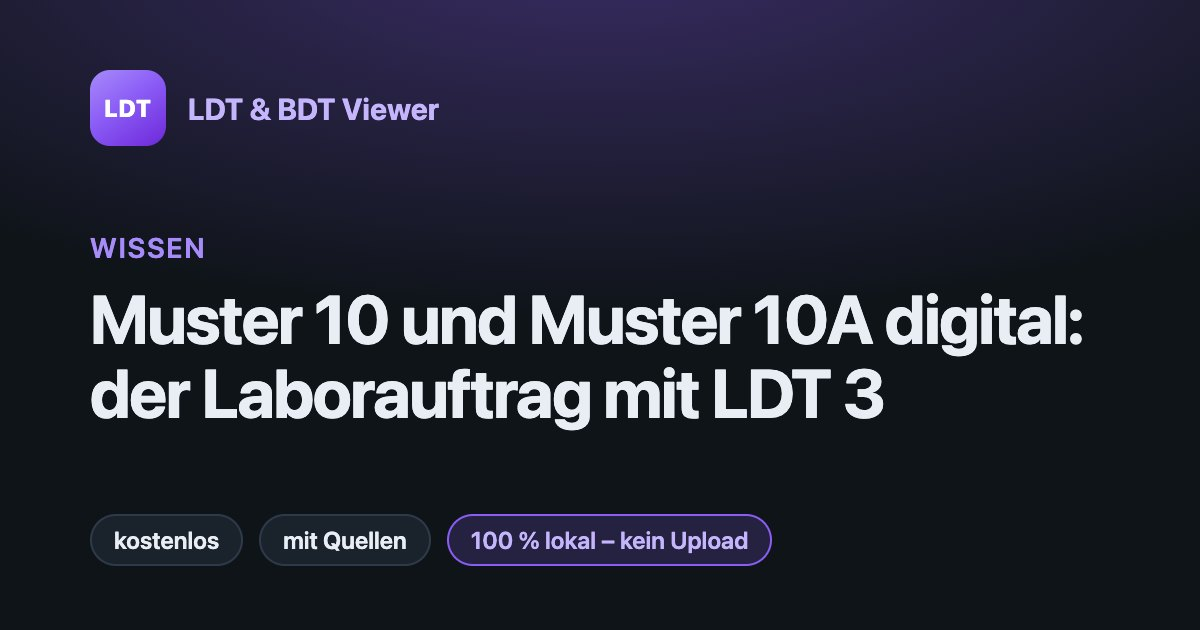
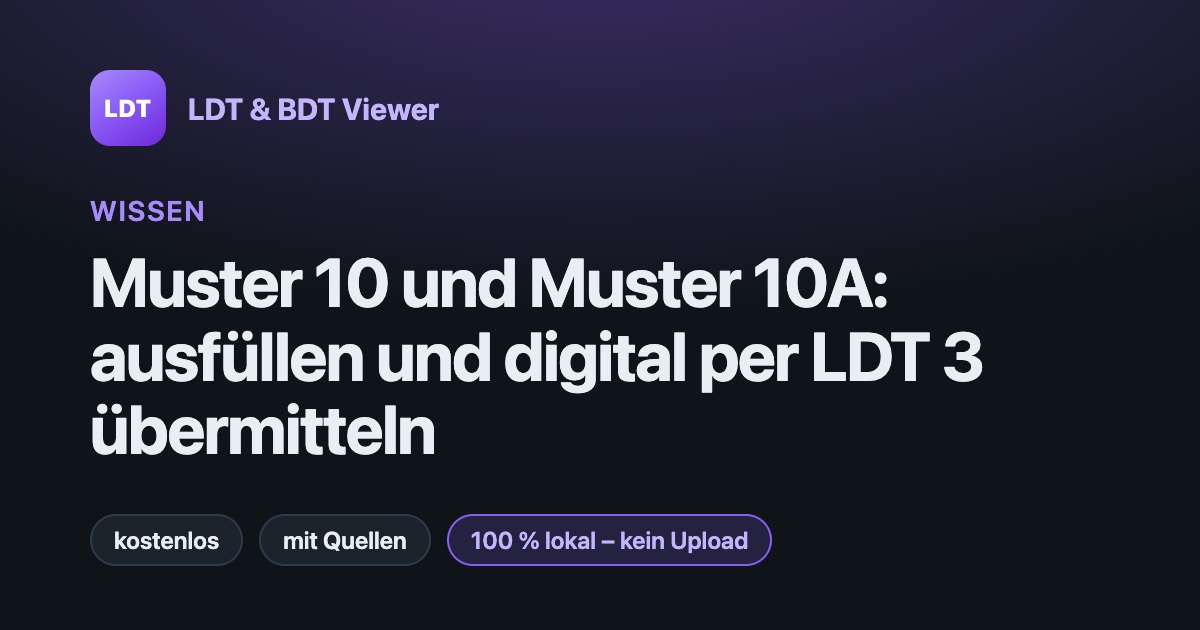
Audit umgesetzt: Suchabsicht BDT und Muster 10A, Quellen kürzer, Autor, Diagramm, Bedienbarkeit
- KBV-Prüfmodul-Seite: Tabellenspalten vertauscht (Datum stand unter „Inhalt“)
- /was-ist-bdt/: Titel/H1 „BDT-Datei … erkennen und öffnen“, Erkennungshilfe und Abgrenzung
  zu anderen .bdt-Dateien (filext.com)
- /muster-10-laborauftrag/: Ausfüllregeln für Muster 10 und 10A aus den KBV-Erläuterungen
  zur Vordruckvereinbarung (Stand Januar 2026, S. 36–41), FAQ, neuer Titel
- Quellenangaben: Kurznamen im Text (voller Titel als title, im Schema, auf /quellen/),
  „abgerufen“ statt „Stand“, gleiche Quelle je Absatz nur einmal; Anteil 21–30 % → 14–23 %
- /ueber/: Autorenabschnitt nach freimoser.de; Person-Schema mit jobTitle, knowsAbout, sameAs
- /was-ist-ldt/: Ablaufdiagramm Praxis ↔ Labor (SVG, in der Bild-Sitemap)
- Startseite: durchgehend Sie, Screenshot im WebApplication-Schema, Dateieingabe mit aria-label,
  „Datei wählen“ mobil über der Falz; Navigation 44 px hohe Tippflächen; Quelltext 14,6 px

Changed region(s): [[0.0617, 0.3016, 0.925, 0.7238]]

diff --git a/src/assets/css/styles.css b/src/assets/css/styles.css
@@ -53,12 +53,12 @@ a:hover { color: var(--text); }
 html { scroll-padding-top: calc(var(--header-h) + 1rem); }
 .site-header { position: sticky; top: 0; z-index: 15; background: var(--bg); background: color-mix(in srgb, var(--bg) 88%, transparent); -webkit-backdrop-filter: blur(10px); backdrop-filter: blur(10px); border-bottom: 1px solid var(--border); }
 .site-header-inner { max-width: 1080px; margin: 0 auto; padding: 0.45rem 1.25rem; display: flex; align-items: center; gap: 0.75rem; }
-.site-brand { display: flex; align-items: center; gap: 0.55rem; flex: none; color: var(--text); text-decoration: none; font-weight: 700; font-size: 0.92rem; white-space: nowrap; padding: 0.25rem 0.4rem 0.25rem 0; border-radius: 8px; }
+.site-brand { display: flex; align-items: center; min-height: 44px; gap: 0.55rem; flex: none; color: var(--text); text-decoration: none; font-weight: 700; font-size: 0.92rem; white-space: nowrap; padding: 0.25rem 0.4rem 0.25rem 0; border-radius: 8px; }
 .site-brand:hover, .site-brand[aria-current="page"] { color: var(--accent-hover); }
 .logo.logo-sm { width: 2rem; height: 2rem; border-radius: 8px; font-size: 0.6rem; box-shadow: none; }
 .site-nav { display: flex; flex-wrap: nowrap; align-items: center; gap: 0.1rem; margin-left: auto; min-width: 0; overflow-x: auto; scrollbar-width: none; -webkit-mask-image: linear-gradient(90deg, transparent 0, #000 0.75rem, #000 calc(100% - 0.75rem), transparent 100%); mask-image: linear-gradient(90deg, transparent 0, #000 0.75rem, #000 calc(100% - 0.75rem), transparent 100%); padding: 0 0.6rem; }
 .site-nav::-webkit-scrollbar { display: none; }
-.site-nav a { flex: none; color: var(--muted); text-decoration: none; font-size: 0.85rem; font-weight: 500; padding: 0.5rem 0.5rem; border-radius: 8px; white-space: nowrap; transition: color 0.15s, background 0.15s; }
+.site-nav a { flex: none; display: inline-flex; align-items: center; min-height: 44px; box-sizing: border-box; color: var(--muted); text-decoration: none; font-size: 0.85rem; font-weight: 500; padding: 0.5rem 0.5rem; border-radius: 8px; white-space: nowrap; transition: color 0.15s, background 0.15s; }
 .site-nav a:hover { color: var(--text); background: var(--bg-soft); }
 .site-nav a[aria-current] { color: var(--accent-hover); background: var(--accent-dim); }
 .page { padding-top: 1.75rem; }
@@ -333,7 +333,7 @@ tbody tr:last-child td { border-bottom: none; }
 .prose table { width: 100%; margin: 0 0 1.2rem; font-size: 0.93rem; background: var(--bg-elevated); border: 1px solid var(--border); border-radius: 12px; }
 .prose .table-wrap { margin: 0 0 1.2rem; border: 1px solid var(--border); border-radius: 12px; }
 .prose .table-wrap table { margin: 0; border: 0; }
-.src { font-size: 0.82rem; color: var(--muted); }
+.src { font-size: 0.86rem; color: var(--muted); }
 .src a { color: var(--muted); }
 .callout { margin: 1.25rem 0; padding: 1rem 1.1rem; background: var(--accent-dim); border: 1px solid rgba(139, 92, 246, 0.4); border-radius: 12px; }
 .callout p { margin: 0; }
@@ -401,6 +401,7 @@ tbody tr:last-child td { border-bottom: none; }
 @media (max-width: 600px) {
   .page { padding: 1rem 1rem 2rem; }
   .site-header-inner { padding: 0.35rem 0.75rem 0.35rem 1rem; gap: 0.25rem; }
+  .card-intro .intro-extra { display: none; }
   .site-brand > span:last-child { position: absolute; width: 1px; height: 1px; overflow: hidden; clip: rect(0 0 0 0); white-space: nowrap; }
   .site-nav a { font-size: 0.84rem; padding: 0.5rem 0.55rem; }
   h1 { font-size: 1.35rem; }

diff --git a/quellen.md b/quellen.md
@@ -23,6 +23,8 @@ Abrufdatum aller Quellen: **08.10.2026**; erneut abgerufen und um das Prüfpaket
 | (Begriff) | tomedo Onlinehilfe „Labordatentransfer (LDT)“ und CGM Knowledge Base „LDT Labordatentransfer“ | Handbuchseiten, abgerufen 26.10.2026 | zollsoft GmbH bzw. CompuGroup Medical | https://support.tomedo.de/handbuch/tomedo/labor/labordatentransfer/ und https://support.cgm.com/CGM_TURBOMED/Handbuch_(Version_25.4.2)/LDT_Labordatentransfer/LDT_Labordatentransfer | Beleg, dass Praxissoftware-Handbücher LDT auch „Labordatentransfer“ nennen (/was-ist-ldt/, /glossar/) |
 | (Downloads) | KBV: Update-Verzeichnis Labordatenkommunikation | Verzeichnisliste, abgerufen 05.11.2026 | KBV | https://update.kbv.de/ita-update/Labor/Labordatenkommunikation/ | Dateinamen, Datum und Größe von Prüfmodul XPM-LDK (praxis, KV; 2.20.0 vom 14.08.2026), Testdateien LDT 3.2.20 (02.09.2026), Prüfpaket und FAQ (/kbv-pruefmodul-testdateien/) |
 | (App) | Chromium: Web App File Handling | Entwicklerdokumentation im Chromium-Repository, abgerufen 05.11.2026 | The Chromium Authors | https://github.com/chromium/chromium/blob/main/docs/webapps/file_handling.md | Dateiverknüpfung installierter Web-Apps auf Windows, Mac, Linux und ChromeOS mit Bestätigungsdialog (/ldt-datei-oeffnen/#als-app) |
+| Vordrucke | KBV: Erläuterungen zur Vereinbarung über Vordrucke für die vertragsärztliche Versorgung | PDF, Stand Januar 2026, abgerufen 25.11.2026 | KBV | https://www.kbv.de/documents/infothek/rechtsquellen/bundesmantelvertrag/anlage-02-vordruckvereinbarung/02_Erlaeuterungen.pdf | Ausfüllregeln für Muster 10 und Muster 10A (S. 36–41) auf /muster-10-laborauftrag/ |
+| (Abgrenzung) | filext.com: Dateiendung BDT | Webseite, abgerufen 25.11.2026 | filext.com | https://filext.com/de/dateiendung/BDT | Beleg, dass .bdt auch von anderen Programmen genutzt wird (Lingvo-Wörterbücher, Spiel-Engines) auf /was-ist-bdt/ |
 | GDT | GDT 2.1 (englische Fassung) | 2.1 | QMS | https://www.qms-standards.de/files/GDT_2_1_0501_english.pdf | Erkennung von GDT-Dateien (Satzarten 6300–6311, Feld 9218 Versionsnummer) |
 
 ## Organisationen
